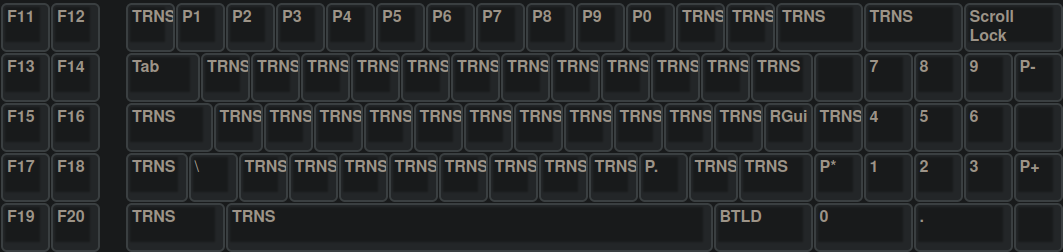
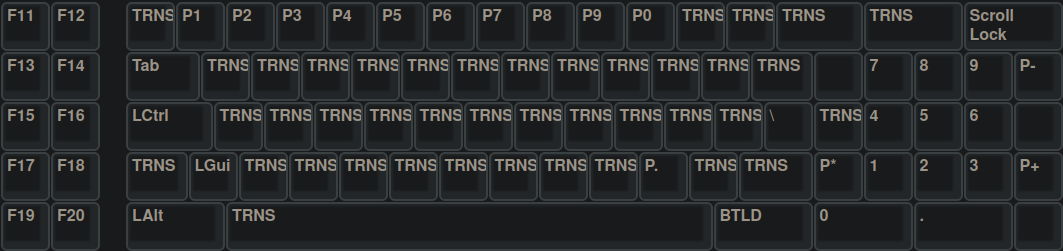
minor assignment changes

diff --git a/unimap_plain.c b/unimap_plain.c
@@ -2,23 +2,23 @@
  * path:   /home/klassiker/.local/share/repos/zenith-xt-usb/unimap_plain.c
  * author: klassiker [mrdotx]
  * github: https://github.com/mrdotx/zenith-usb
- * date:   2021-02-28T18:26:51+0100
+ * date:   2021-02-28T20:07:12+0100
  */
 
 #include "unimap_trans.h"
 
 enum macro_id {
+    SETKB,
     AUTOSTART,
     OPENSSH,
-    SETKB,
 };
 
 #define AC_T1   ACTION_LAYER_TOGGLE(1)
 #define AC_LT1  ACTION_LAYER_TAP_KEY(1, KC_TAB)
 #define AC_LT2  ACTION_LAYER_TAP_KEY(2, KC_INS)
+#define AC_M0   ACTION_MACRO(SETKB)
 #define AC_M1   ACTION_MACRO(AUTOSTART)
 #define AC_M2   ACTION_MACRO(OPENSSH)
-#define AC_M11  ACTION_MACRO(SETKB)
 
 #ifdef KEYMAP_SECTION_ENABLE
 const action_t actionmaps[][UNIMAP_ROWS][UNIMAP_COLS] __attribute__ ((section (".keymap.keymaps"))) = {
@@ -27,32 +27,32 @@ const action_t actionmaps[][UNIMAP_ROWS][UNIMAP_COLS] PROGMEM = {
 #endif
     UNIMAP(
               NO,  NO,  NO,  NO,  NO,  NO,  NO,  NO,  NO,  NO,  NO,  NO,
-    ESC,      F1,  F2,  F3,  F4,  F5,  F6,  F7,  F8,  F9,  F10, NO,  NO,            NO,  MUTE,NO,             NO,  NO,  NO,
-    GRV, 1,   2,   3,   4,   5,   6,   7,   8,   9,   0,   MINS,EQL, NO,  BSPC,     NO,  NO,  NO,      T1,    NO,PSCR,VOLD,
-    LT1, Q,   W,   E,   R,   T,   Y,   U,   I,   O,   P,   LBRC,RBRC,     LGUI,     NO,  NO,  NO,      HOME,  UP,PGUP,VOLU,
+    ESC,      F1,  F2,  F3,  F4,  F5,  F6,  F7,  F8,  F9,  F10, NO,  NO,            NO,  MUTE,NO,           NO,  NO,  NO,
+    GRV, 1,   2,   3,   4,   5,   6,   7,   8,   9,   0,   MINS,EQL, NO,  BSPC,     NO,  NO,  NO,      T1,  NO,  PSCR,VOLD,
+    LT1, Q,   W,   E,   R,   T,   Y,   U,   I,   O,   P,   LBRC,RBRC,     LGUI,     NO,  NO,  NO,      HOME,UP,  PGUP,VOLU,
     CAPS,A,   S,   D,   F,   G,   H,   J,   K,   L,   SCLN,QUOT,     NO,  ENT,                         LEFT,PAUS,RGHT,NO,
     LSFT,NO,  Z,   X,   C,   V,   B,   N,   M,   COMM,DOT, SLSH,     NO,  RSFT,          NO,           END, DOWN,PGDN,NO,
-    LCTL,NO  ,LALT,NO,            SPC,           NO,  NO,  NO  ,NO  ,NO,  NO,       NO,  NO,  NO,           LT2, DEL, NO
+    LCTL,NO,  LALT,NO,            SPC,           NO,  NO,  NO  ,NO  ,NO,  NO,       NO,  NO,  NO,           LT2, DEL, NO
     ),
     /* function keys and num pad with tab key TAB(LT1) and layer toggle NUM LOCK(T1) */
     UNIMAP(
               NO,  NO,  NO,  NO,  NO,  NO,  NO,  NO,  NO,  NO,  NO,  NO,
     TRNS,     F11, F12, F13, F14, F15, F16, F17, F18, F19, F20, NO,  NO,            NO,  SLCK,NO,           NO,  NO,  NO,
-    RGUI,P1,  P2,  P3,  P4,  P5,  P6,  P7,  P8,  P9,  P0,  TRNS,TRNS,NO,  TRNS,     NO,  NO,  NO,      TRNS,NO,  PAST,PMNS,
-    TAB, TRNS,TRNS,TRNS,TRNS,TRNS,TRNS,TRNS,TRNS,TRNS,TRNS,TRNS,TRNS,     BSLS,     NO,  NO,  NO,      7,   8,   9,   PPLS,
+    BSLS,P1,  P2,  P3,  P4,  P5,  P6,  P7,  P8,  P9,  P0,  TRNS,TRNS,NO,  TRNS,     NO,  NO,  NO,      TRNS,NO,  PAST,PMNS,
+    TAB, TRNS,TRNS,TRNS,TRNS,TRNS,TRNS,TRNS,TRNS,TRNS,TRNS,TRNS,TRNS,     LGUI,     NO,  NO,  NO,      7,   8,   9,   PPLS,
     BTLD,TRNS,TRNS,TRNS,TRNS,TRNS,TRNS,TRNS,TRNS,TRNS,TRNS,TRNS,     NO,  TRNS,                        4,   5,   6,   NO,
     TRNS,NO,  TRNS,TRNS,TRNS,TRNS,TRNS,TRNS,TRNS,TRNS,PDOT,TRNS,     NO,  TRNS,          NO,           1,   2,   3,   NO,
-    TRNS,NO,  TRNS,NO,            TRNS,          NO,  NO  ,NO,  NO,  NO,  NO,       NO,  NO,  NO,           0,   DOT, NO
+    LCTL,NO,  LALT,NO,            TRNS,          NO,  NO  ,NO,  NO,  NO,  NO,       NO,  NO,  NO,           0,   DOT, NO
     ),
     /* mouse functions with tap key INS(LT2) */
     UNIMAP(
               NO,  NO,  NO,  NO,  NO,  NO,  NO,  NO,  NO,  NO,  NO,  NO,
-    PWR,      M1,  M2,  TRNS,TRNS,TRNS,TRNS,TRNS,TRNS,TRNS,TRNS,NO,  NO,            NO,  SLEP,NO,           NO,  NO,  NO,
+    PWR,      M1,  M2,  TRNS,TRNS,TRNS,TRNS,TRNS,TRNS,TRNS,M0  ,NO,  NO,            NO,  SLEP,NO,           NO,  NO,  NO,
     TRNS,TRNS,TRNS,TRNS,TRNS,TRNS,TRNS,TRNS,TRNS,TRNS,TRNS,TRNS,TRNS,NO,  TRNS,     NO,  NO,  NO,      TRNS,NO,  TRNS,WH_U,
-    TRNS,TRNS,TRNS,TRNS,TRNS,TRNS,TRNS,TRNS,TRNS,TRNS,TRNS,TRNS,TRNS,     TRNS,     NO,  NO,  NO,      BTN2,MS_U,BTN3,WH_D,
+    TRNS,TRNS,TRNS,TRNS,TRNS,TRNS,TRNS,TRNS,TRNS,TRNS,TRNS,TRNS,TRNS,     RGUI,     NO,  NO,  NO,      BTN2,MS_U,BTN3,WH_D,
     TRNS,TRNS,TRNS,TRNS,TRNS,TRNS,TRNS,TRNS,TRNS,TRNS,TRNS,TRNS,     NO,  TRNS,                        MS_L,WH_L,MS_R,NO,
     TRNS,NO,  TRNS,TRNS,TRNS,TRNS,TRNS,TRNS,TRNS,ACL0,ACL1,ACL2,     NO,  TRNS,          NO,           BTN1,MS_D,WH_R,NO,
-    TRNS,NO,  TRNS,NO,            TRNS,          NO,  NO  ,NO,  NO,  NO,  NO,       NO,  NO,  NO,           TRNS,M11, NO
+    RCTL,NO,  RALT,NO,            TRNS,          NO,  NO  ,NO,  NO,  NO,  NO,       NO,  NO,  NO,           TRNS,TRNS,NO
     ),
 };
 
@@ -64,6 +64,34 @@ const action_t actionmaps[][UNIMAP_ROWS][UNIMAP_COLS] PROGMEM = {
 const macro_t *action_get_macro(keyrecord_t *record, uint8_t id, uint8_t opt)
 {
     switch (id) {
+        case SETKB:
+            return (record->event.pressed ?
+                    MACRO( \
+                        /* set interval */
+                        I(1), \
+                        /* open terminal and wait for x milliseconds */
+                        D(RGUI), T(ENT), U(RGUI), W(255), \
+                        /* type 'xset r rate 200 50;' */
+                        T(SPC), \
+                        T(X), T(S), T(E), T(T), T(SPC), \
+                        T(R), T(SPC), \
+                        T(R), T(A), T(T), T(E), T(SPC), \
+                        T(2), T(0), T(0), T(SPC), \
+                        T(5), T(0), T(SCLN), \
+                        /* type 'setxkbmap -model pc105 -layout us,de -option grp:caps_switch;' */
+                        T(SPC),
+                        T(S), T(E), T(T), T(X), T(K), T(B), T(M), T(A), T(P), T(SPC), \
+                        T(MINS), T(M), T(O), T(D), T(E), T(L), T(SPC), \
+                        T(P), T(C), T(1), T(0), T(5), T(SPC), \
+                        T(MINS), T(L), T(A), T(Y), T(O), T(U), T(T), T(SPC), \
+                        T(U), T(S), T(COMM), T(D), T(E), T(SPC), \
+                        T(MINS), T(O), T(P), T(T), T(I), T(O), T(N), T(SPC), \
+                        T(G), T(R), T(P), D(LSFT), T(SCLN), U(LSFT), T(C), T(A), T(P), T(S), D(LSFT), T(MINS), U(LSFT), T(S), T(W), T(I), T(T), T(C), T(H), T(SCLN), \
+                        /* type 'exit' and press enter (close terminal) */
+                        T(SPC), \
+                        T(E), T(X), T(I), T(T), T(ENT), \
+                        END ) :
+                    MACRO_NONE );
         case AUTOSTART:
             return (record->event.pressed ?
                     MACRO( \
@@ -98,34 +126,6 @@ const macro_t *action_get_macro(keyrecord_t *record, uint8_t id, uint8_t opt)
                         D(RGUI), T(H), U(RGUI), \
                         /* open ssh to prometheus */
                         D(RGUI), D(LSFT), T(H), U(LSFT), U(RGUI), \
-                        END ) :
-                    MACRO_NONE );
-        case SETKB:
-            return (record->event.pressed ?
-                    MACRO( \
-                        /* set interval */
-                        I(1), \
-                        /* open terminal and wait for x milliseconds */
-                        D(RGUI), T(ENT), U(RGUI), W(255), \
-                        /* type 'xset r rate 200 50;' */
-                        T(SPC), \
-                        T(X), T(S), T(E), T(T), T(SPC), \
-                        T(R), T(SPC), \
-                        T(R), T(A), T(T), T(E), T(SPC), \
-                        T(2), T(0), T(0), T(SPC), \
-                        T(5), T(0), T(SCLN), \
-                        /* type 'setxkbmap -model pc105 -layout us,de -option grp:caps_switch;' */
-                        T(SPC),
-                        T(S), T(E), T(T), T(X), T(K), T(B), T(M), T(A), T(P), T(SPC), \
-                        T(MINS), T(M), T(O), T(D), T(E), T(L), T(SPC), \
-                        T(P), T(C), T(1), T(0), T(5), T(SPC), \
-                        T(MINS), T(L), T(A), T(Y), T(O), T(U), T(T), T(SPC), \
-                        T(U), T(S), T(COMM), T(D), T(E), T(SPC), \
-                        T(MINS), T(O), T(P), T(T), T(I), T(O), T(N), T(SPC), \
-                        T(G), T(R), T(P), D(LSFT), T(SCLN), U(LSFT), T(C), T(A), T(P), T(S), D(LSFT), T(MINS), U(LSFT), T(S), T(W), T(I), T(T), T(C), T(H), T(SCLN), \
-                        /* type 'exit' and press enter (close terminal) */
-                        T(SPC), \
-                        T(E), T(X), T(I), T(T), T(ENT), \
                         END ) :
                     MACRO_NONE );
     }
